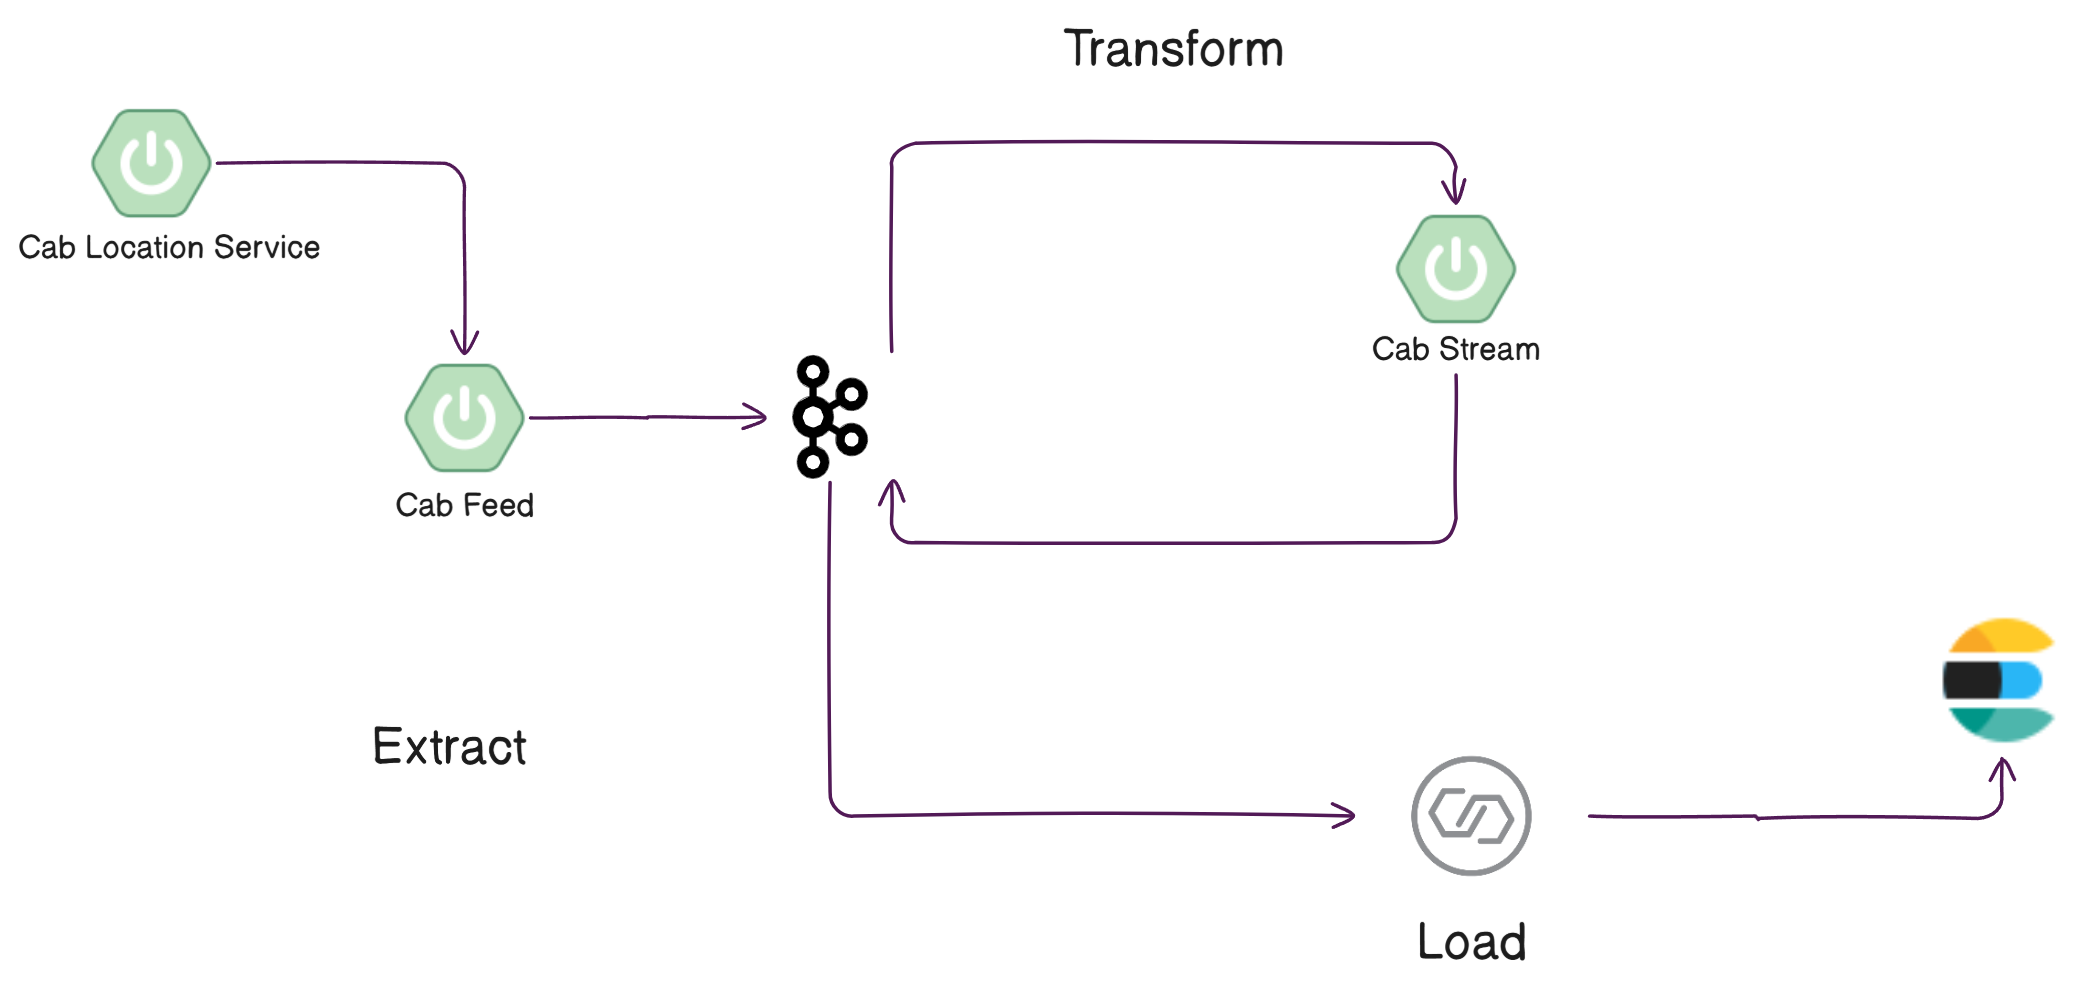
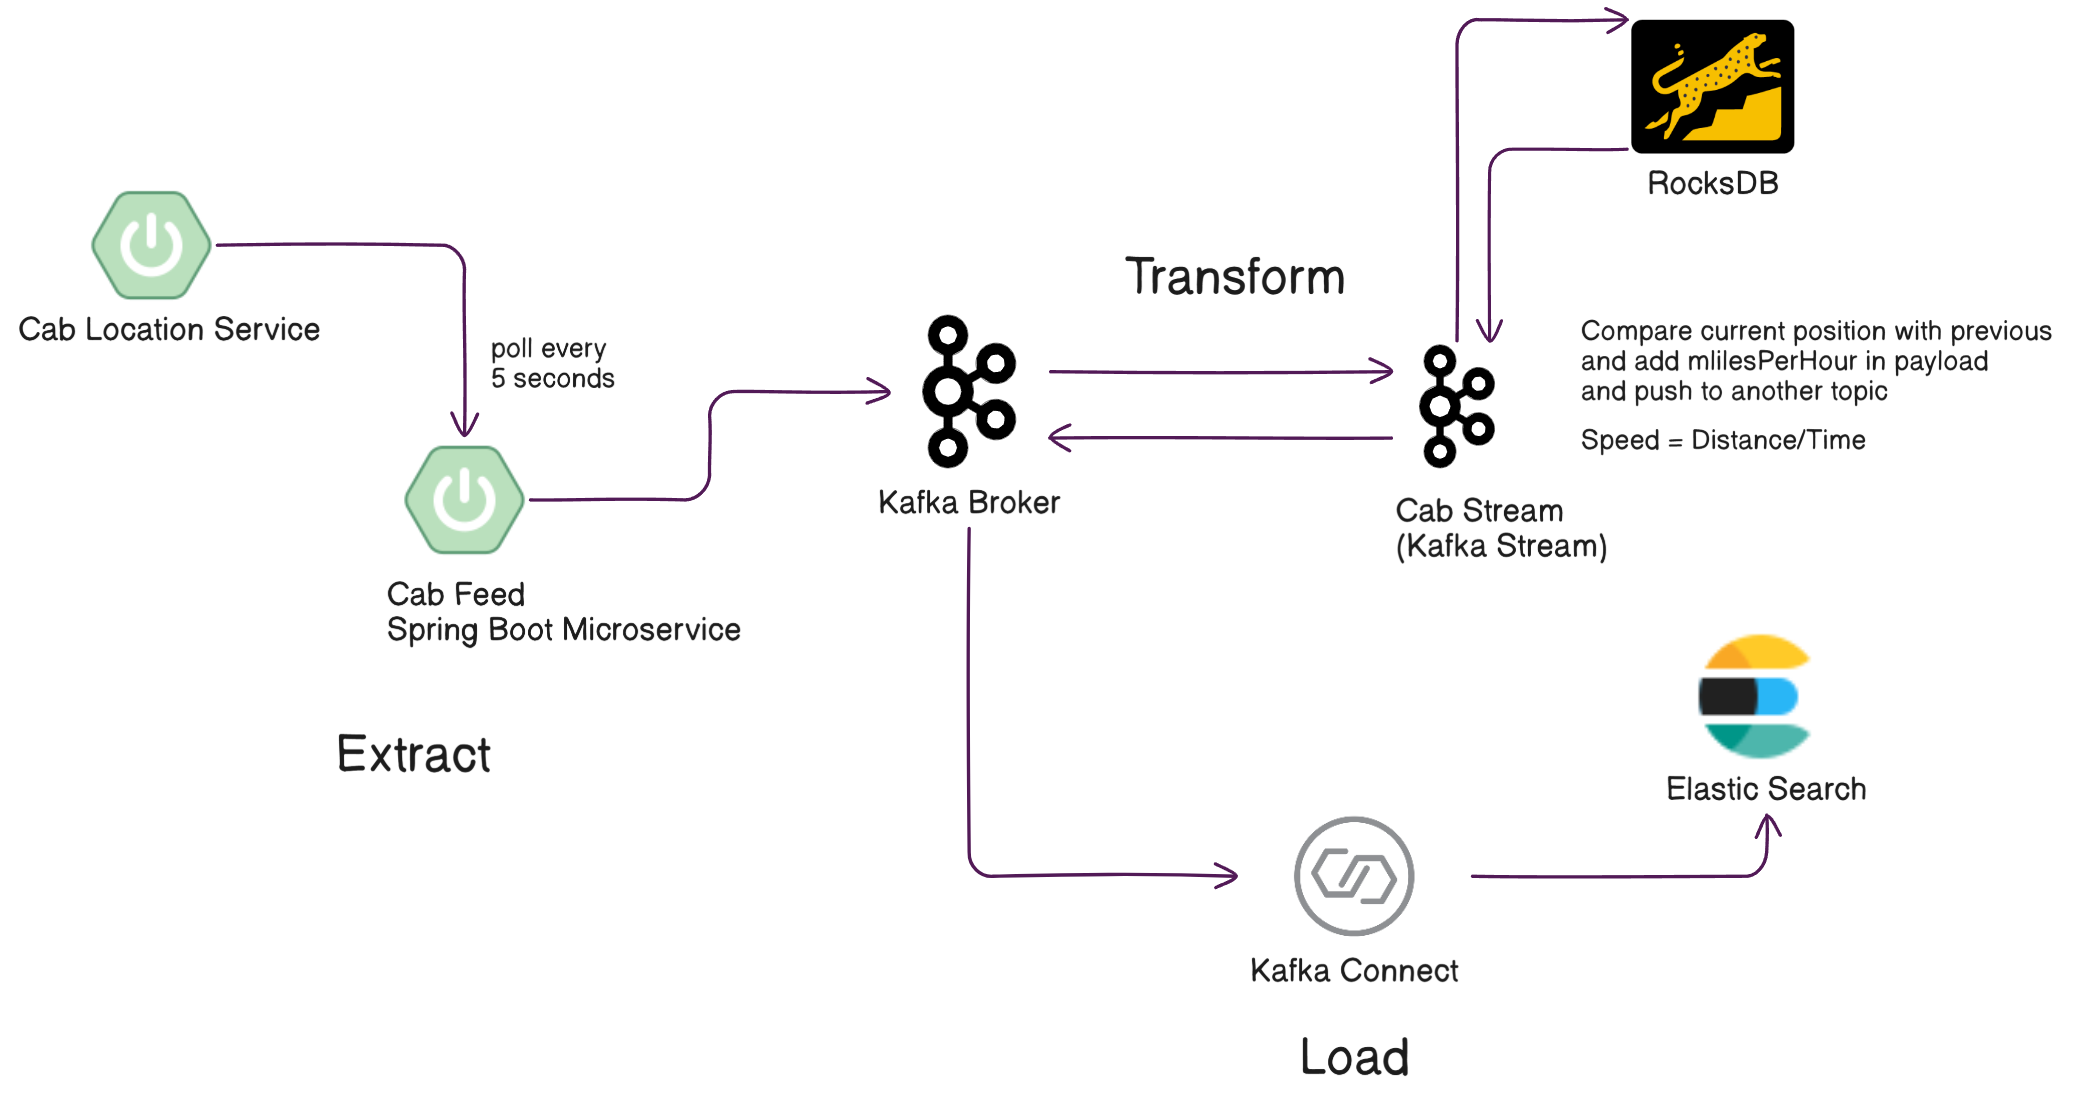
added final technical architecture

diff --git a/cab-feed/src/main/java/com/telemetry/info/cron/SensorReading.java b/cab-feed/src/main/java/com/telemetry/info/cron/SensorReading.java
@@ -19,7 +19,7 @@ public class SensorReading {
     @Autowired
     private KafkaTemplate<String, CabLocationFeed> kafkaTemplate;
 
-    @Scheduled(cron = "*/5 * * * * *") // every 2 seconds
+    @Scheduled(cron = "*/5 * * * * *") // every 5 seconds
     public void readSensorData(){
 
         String URL = "http://localhost:8089/api/cabs/locations";
